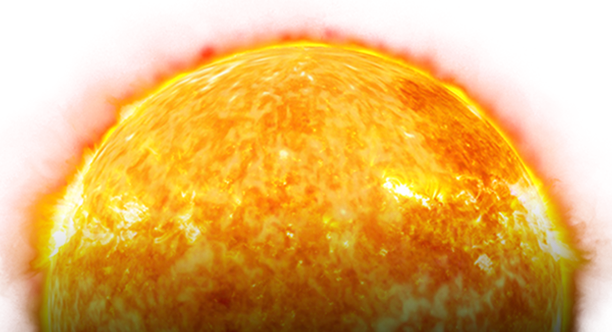
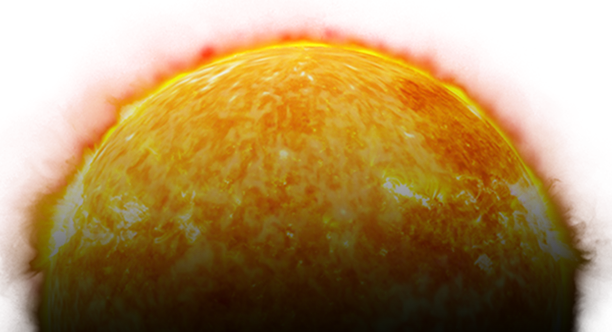
update

diff --git a/planet/index.html b/planet/index.html
@@ -10,8 +10,8 @@
       integrity="sha384-MCw98/SFnGE8fJT3GXwEOngsV7Zt27NXFoaoApmYm81iuXoPkFOJwJ8ERdknLPMO"
       crossorigin="anonymous"
     />
-    <link rel="stylesheet" href="/css/style.css" />
-    <link rel="stylesheet" href="/css/parallax.css" />
+    <link rel="stylesheet" href="../css/style.css" />
+    <link rel="stylesheet" href="../css/parallax.css" />
     <link rel="shortcut icon" href="./assets/logo.ico" />
     <title>Planets | Solar System</title>
   </head>
@@ -95,6 +95,6 @@
 
     <script src="https://cdn.jsdelivr.net/npm/vanilla-lazyload@12.3.0/dist/lazyload.min.js"></script>
     <script src="https://cdnjs.cloudflare.com/ajax/libs/parallax/3.1.0/parallax.min.js"></script>
-    <script src="/js/parallaxScene.js"></script>
+    <script src="../js/parallaxScene.js"></script>
   </body>
 </html>

diff --git a/css/style.css b/css/style.css
@@ -1,5 +1,6 @@
 @import url('https://fonts.googleapis.com/css?family=Sarabun&display=swap');
 @import url('https://fonts.googleapis.com/css?family=Athiti|Chonburi&display=swap');
+@import url('https://fonts.googleapis.com/css?family=Kanit&display=swap"');
 
 html {
   overflow: hidden;
@@ -22,7 +23,7 @@ body {
   background-blend-mode: multiply;
   text-shadow: 0 0.05rem 0.1rem rgba(0, 0, 0, .5);
   box-shadow: inset 0 0 5rem rgba(0, 0, 0, .5);
-  font-family: 'Sarabun', -apple-system, BlinkMacSystemFont, "Segoe UI", Roboto,
+  font-family: 'Kanit', sans-serif, 'Sarabun', -apple-system, BlinkMacSystemFont, "Segoe UI", Roboto,
     "Helvetica Neue", Arial, sans-serif, "Apple Color Emoji", "Segoe UI Emoji",
     "Segoe UI Symbol";
   font-size: 1rem;

diff --git a/planet/sun.html b/planet/sun.html
@@ -111,7 +111,7 @@
       </div>
     </div>
     <div class="overlay text-center bottom">
-      <img class="planet-pic" src="../assets/sun1.png" />
+      <img class="planet-pic" src="../assets/Sun.png" />
     </div>
   </div>
   </div>

diff --git a/css/parallax.css b/css/parallax.css
@@ -2,6 +2,9 @@
   margin-top: auto;
 }
 
-#scene .planet-pic {
-  top: -80%;
+@media screen and (min-width: 1178px) {
+  #scene .planet-pic {
+    top: -60%;
+  }
 }
+
